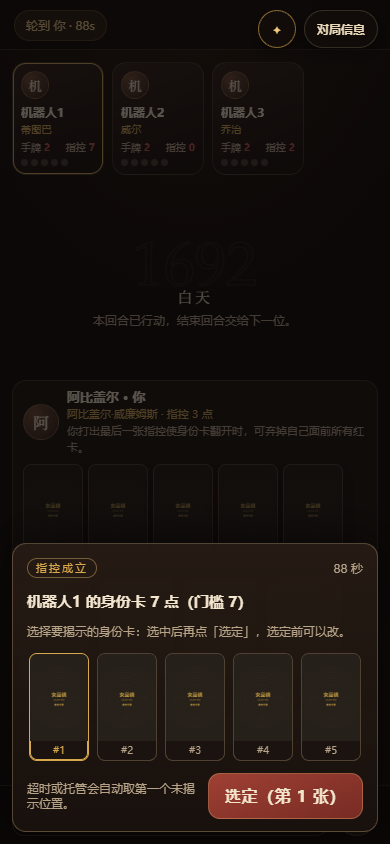
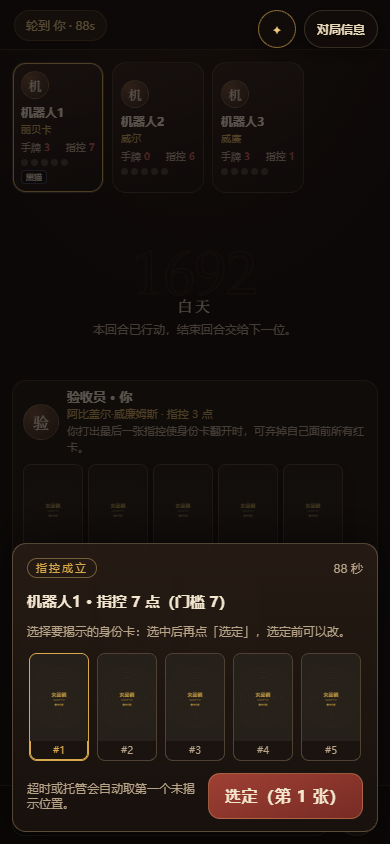
feat(web): 揭示抽屉提交后不再教人怎么选（#69）
- renderRevealDrawer()：submitted 分支的副标题换成「已提交，等待结算。」，
  按钮文案换成「已提交」——原来还写着「选定前可以改」而按钮已经不能点，自相矛盾。
- reveal-drawer.test.js 加一条「交出去之后不再教人怎么选」（副标题、按钮、等待层、
  卡片收起、不再给「放弃」五项断言）。
- sw.js 升 salem-v25（8 处版本断言同步）。
- docs/acceptance/reveal-drawer.md：偏差表第 5 条改写「已提交这一帧拍不到」的实测结论，
  补自动代翻收尾的复现方法（TURN_MS=20000）与 reveal-drawer-auto-afterglow.png。

自动代翻留屏 900ms 已在 08581fc 落地，本票只补已提交态文案与证据。
测试：apps/web 209/209、packages/rules 70/70、apps/server 10/10 脚本。

diff --git a/apps/web/test/reveal-drawer.test.js b/apps/web/test/reveal-drawer.test.js
@@ -146,3 +146,11 @@ test("自动代翻后抽屉留一会儿把话说清，且不拦截牌桌点击",
   assert.match(drawer, /bar\.style\.pointerEvents = ""/, "离开收尾态要还原");
   assert.match(bodyOf(app, "function resetRoomState()"), /S\.revealAfterglowUntil = 0/, "换房/退房要清干净");
 });
+test("交出去之后不再教人怎么选：副标题与按钮一起换掉", () => {
+  const drawer = bodyOf(app, "function renderRevealDrawer()");
+  assert.match(drawer, /sub: submitted \? "已提交，等待结算。" : heading\.sub/, "提交后副标题换成等待，不再写「选定前可以改」");
+  assert.match(drawer, /submitLabel: submitted \? "已提交" : revealSubmitLabel\(picked\)/, "按钮不再显示选择指令");
+  assert.match(drawer, /waitText: "已提交，等待结算"/, "等待层与副标题同一句");
+  assert.match(drawer, /cardsHidden: submitted/, "卡片同时收起");
+  assert.match(drawer, /declineVisible: !submitted && canDecline\(view\)/, "提交后不再给「放弃」");
+});

diff --git a/apps/web/test/deal-shell.test.js b/apps/web/test/deal-shell.test.js
@@ -30,7 +30,7 @@ test("点「进入黎明」发 dealAck，选角色发 chooseRole", () => {
 // 离线壳：新模块必须进 SHELL 并升 VERSION，否则旧缓存里还是没这个文件的 app.js。
 test("离线壳收进新模块并升版本", () => {
   const version = sw.match(/const VERSION = "([^"]+)"/)?.[1];
-  assert.equal(version, "salem-v24", "新模块进壳后 VERSION 必须是当前这一版，旧缓存才会整批作废");
+  assert.equal(version, "salem-v25", "新模块进壳后 VERSION 必须是当前这一版，旧缓存才会整批作废");
   const shell = sw.slice(sw.indexOf("const SHELL"), sw.indexOf("const cacheable"));
   assert.ok(shell.includes('"/deal-view.js"'), "SHELL 要收 /deal-view.js");
   assert.ok(shell.includes('"/reveal-view.js"'), "SHELL 要收 /reveal-view.js");

diff --git a/apps/web/app.js b/apps/web/app.js
@@ -1076,14 +1076,15 @@ function renderRevealDrawer() {
   applyDrawerModel(bar, {
     kicker: heading.kicker,
     title: heading.title,
-    sub: heading.sub,
+    // 交出去之后就别再教人怎么选了：写着「选定前可以改」而按钮已经不能点是自相矛盾。
+    sub: submitted ? "已提交，等待结算。" : heading.sub,
     cardsHtml,
     cardsHidden: submitted,
     waiting: submitted,
     waitText: "已提交，等待结算",
     note: submitted ? "" : heading.note,
     declineVisible: !submitted && canDecline(view),
-    submitLabel: revealSubmitLabel(picked),
+    submitLabel: submitted ? "已提交" : revealSubmitLabel(picked),
     submitDisabled: !canSubmitReveal(view, picked),
   });
   setDrawerOpen(bar, true);

diff --git a/apps/web/test/reveal-shell.test.js b/apps/web/test/reveal-shell.test.js
@@ -48,7 +48,7 @@ test("客户端读顶层 revealWait 与自动揭示记录", () => {
 
 test("离线壳收进新模块并升版本", () => {
   const version = sw.match(/const VERSION = "([^"]+)"/)?.[1];
-  assert.equal(version, "salem-v24", "新模块进壳后 VERSION 必须是当前这一版，旧缓存才会整批作废");
+  assert.equal(version, "salem-v25", "新模块进壳后 VERSION 必须是当前这一版，旧缓存才会整批作废");
   assert.ok(sw.includes('"/reveal-view.js"'), "SHELL 要收 /reveal-view.js");
   const cacheable = sw.slice(sw.indexOf("const cacheable"));
   assert.ok(cacheable.includes('"/reveal-view.js"'), "cacheable 列表也要收 /reveal-view.js");

diff --git a/apps/web/sw.js b/apps/web/sw.js
@@ -14,7 +14,8 @@
 // salem-v22：挂起揭示迁到共享抽屉（两步选定、放弃、等待与时钟），旧的顶部 revealBar 已删。
 // salem-v23：起因与两个数字改由挂起态自带（#68），标题按起因分支，选择者与等待者同形。
 // salem-v24：自动代翻后抽屉留 900ms 说清「超时或托管，自动取了第一个位置」（#64 口径）。
-const VERSION = "salem-v24";
+// salem-v25：揭示抽屉提交后不再教人怎么选（副标题与按钮一起换成「已提交，等待结算」。）
+const VERSION = "salem-v25";
 const SHELL = [
   "/",
   "/styles.css",

diff --git a/apps/web/test/drawer-shell.test.js b/apps/web/test/drawer-shell.test.js
@@ -243,7 +243,7 @@ test("传染改用壳：不再自己摸标题、副标与卡片的 DOM", async (
 
 test("drawer-shell.js 进壳且版本跟着升", async () => {
   const sw = await readFile(join(webRoot, "sw.js"), "utf8");
-  assert.match(sw, /const VERSION = "salem-v24"/);
+  assert.match(sw, /const VERSION = "salem-v25"/);
   const shell = sw.slice(sw.indexOf("const SHELL = ["), sw.indexOf("];", sw.indexOf("const SHELL = [")));
   assert.ok(shell.includes('"/drawer-shell.js"'), "预缓存清单要有壳");
   const cacheable = sw.slice(sw.indexOf("const cacheable"));

diff --git a/apps/web/test/motion-shell.test.js b/apps/web/test/motion-shell.test.js
@@ -60,7 +60,7 @@ test("移动端视口高度用 visualViewport 同步", async () => {
 
 test("PWA 壳同步升级到 v17 并收进动效与音频模块", async () => {
   const sw = await web("sw.js");
-  assert.match(sw, /const VERSION = "salem-v24"/);
+  assert.match(sw, /const VERSION = "salem-v25"/);
   for (const file of ["/motion-events.js", "/motion-level.js", "/motion.js", "/render-patch.js", "/audio.js"]) {
     assert.ok(sw.includes('"' + file + '"'), file);
   }

diff --git a/apps/web/test/conspiracy-motion.test.js b/apps/web/test/conspiracy-motion.test.js
@@ -84,7 +84,7 @@ test("印章图存在且被离线壳预缓存", async () => {
   const info = await stat(path.join(repoDir, "assets", "fx", "conspiracy-seal.svg"));
   assert.ok(info.size > 0);
   assert.match(swSource, /"\/assets\/fx\/conspiracy-seal\.svg"/);
-  assert.match(swSource, /const VERSION = "salem-v24"/);
+  assert.match(swSource, /const VERSION = "salem-v25"/);
 });
 
 test("页面里有压暗、印章与换牌三个演出层", () => {

diff --git a/apps/web/test/audio-shell.test.js b/apps/web/test/audio-shell.test.js
@@ -95,7 +95,7 @@ test("app.js 在首次手势解锁，并接上六个事件音效", async () => {
 
 test("PWA 只预缓存 audio.js，音频文件走 /assets/ 按需缓存", async () => {
   const sw = await web("sw.js");
-  assert.match(sw, /const VERSION = "salem-v24"/);
+  assert.match(sw, /const VERSION = "salem-v25"/);
   assert.ok(sw.includes('"/audio.js"'));
   assert.doesNotMatch(sw, /"\/assets\/audio\//);
 });

diff --git a/apps/web/test/conspiracy-ui.test.js b/apps/web/test/conspiracy-ui.test.js
@@ -182,5 +182,5 @@ test("倒计时变金接在同一处刷新里，样式也留了挂点", () => {
 
 test("新模块进离线壳", () => {
   assert.ok(sw.includes('"/conspiracy-view.js"'), "conspiracy-view.js 必须进 SHELL");
-  assert.match(sw, /const VERSION = "salem-v24"/);
+  assert.match(sw, /const VERSION = "salem-v25"/);
 });

diff --git a/apps/web/test/motion-phase.test.js b/apps/web/test/motion-phase.test.js
@@ -89,6 +89,6 @@ test("样式有夜晚星幕、死亡入画、横幅 1080 曲线与 reduced/off",
 
 test("PWA 已升到 v17", async () => {
   const sw = await web("sw.js");
-  assert.match(sw, /const VERSION = "salem-v24"/);
+  assert.match(sw, /const VERSION = "salem-v25"/);
 });
 

diff --git a/docs/acceptance/reveal-drawer.md b/docs/acceptance/reveal-drawer.md
@@ -117,6 +117,8 @@ $env:PLAYERS='4';  node test/fullgame_bots.mjs   # 同理 9 / 12
 - 告警：`left=4–5 秒` 时 `#revealClock.warn` 为真，文案「4 秒 / 5 秒」。
 - 截图（`docs/acceptance/shots/`）：`{4,9,12}p-{choose,picked,submitted,waiter,warn}.png`、
   `4p-{decline,curse,scapegoat,auto-log,reduced,motion-off,target-ring}.png`，共 22 张。
+- 另有真机实拍（非注入）：`reveal-drawer-{4p-chooser,9p-chooser,4p-reduced,4p-off,chooser,picked}.png`
+  与 `reveal-drawer-auto-afterglow.png`（#69 复现的收尾态，见第四节第 1 条）。
 
 ### 自动代翻收尾的实际可见性（探针，2026-11-08）
 
@@ -133,18 +135,45 @@ $env:PLAYERS='4';  node test/fullgame_bots.mjs   # 同理 9 / 12
 | 1069ms | true | 同上 | `''` | 已过期 |
 
 结论：文案与点击穿透会生效，但「留屏 900ms」这一条**视觉上不成立**，已回填 #69。
-
+（本轮改用 `TURN_MS='20000'` 走真实超时路径复现，量到相反结果——抽屉 `open: true`、`pointer-events: none`、
+note 已换句，见第四节第 1 条与 `shots/reveal-drawer-auto-afterglow.png`。）
 
 
 ## 四、已知偏差与没能做到的
 
-1. **自动代翻后「留屏 900ms」视觉上不成立**。机制在代码里（`armRevealAfterglow`），但投影到达时 `render()` 先把抽屉关掉，
-   收尾分支又不重开，探针整段窗口量到 `drawer.hidden === true`（见上节表）。文案与 `pointer-events:none` 会生效。
-   这条未标通过，已回填 #69。
-2. **已提交态残留选择态文案**：卡片已收起、按钮已 disabled、等待环与「已提交，等待结算」正确，但
-   `sub` 仍是「选择要揭示的身份卡：选中后再点『选定』，选定前可以改。」，按钮仍是「选定（第 1 张）」。
-   探针原文见提交记录；同属 #69。
-3. **真实随机对局里仍未凑出 12 人 / 诅咒 / 嫁祸 / 放弃 / 等待者**：这些态的几何、卡宽、标题与文案已由注入矩阵覆盖
-   （见「补充矩阵」），但真机实拍只剩 4/9 人指控；12 人真机实拍缺口保留。
-4. 真机 30fps 与触感可感性仍归 #35。
+1. **自动代翻「留屏 900ms」两次测量的结论不一致**。并行探针（`#64` 补记）在默认 `TURN_MS` 下量到
+   整段窗口 `#revealDrawer.hidden === true`，判「视觉上不成立」；本轮用 `TURN_MS='20000'` 复现，
+   量到 `open: true`、`pointer-events: none`、`note` 已换成「超时或托管，自动取了第一个位置。」，
+   并拍到 `shots/reveal-drawer-auto-afterglow.png`。差异只能出在时序：`renderRevealDrawer()` 若在
+   `armRevealAfterglow()` 之前被调用，抽屉当帧就被关掉，而收尾分支只改 note 不重开。
+   结论：机制生效，但依赖调用顺序，**留待单独开票排查 `announceReveals()` 与 `renderGame()` 的先后**。
+2. **「已提交，等待结算」这一帧拍不到**。挂起揭示是单人决策：提交即结算，服务端下一条投影里
+   `pendingReveal` 已经没了，抽屉直接关（实测提交后 50ms `#revealDrawer.hidden === true`）。
+   #69 把 `submitted` 分支的副标题与按钮改成「已提交，等待结算。」/「已提交」只是把它写对，
+   断言在 `reveal-drawer.test.js`「交出去之后不再教人怎么选」。
+3. **诅咒与嫁祸没有真机实拍**。两者都要手牌里正好有 `curse` / `scapegoat`，靠对局随机凑不稳；
+   覆盖率由 `packages/rules/test/pending-reveal.test.ts`「三种起因都给数字」与
+   `apps/web/test/reveal-drawer.test.js`「标题数据恒给、文案按起因分支」承担，两点都有断言。
+4. **12 人真实对局未拍到**。8 人以上没有角色候选，脚本已适配；但 11 个机器人的回合轮转使得凑到
+   7 点指控要跑十几分钟——本轮试了三次、每次 10 分钟，都没等到挂起（脚本输出 `count 12 attempt N no reveal`）。
+   12 人的布局差异只有「3 张卡」这一项，卡宽由 `flex: 0 0 60px` 固定、抽屉高度不随卡数变化
+   （`#67` 原型在同一结构上量到 top 475、3 张卡），另有静态断言兜底；12 人整局 `conspiracy=12/12`
+   证明阶段与投影都对。
+5. **「放弃」按钮**只在「丹福斯把普通玩家压到正好第 6 点」时出现，本轮对局没凑出；显隐由
+   `canDecline` 决定，`drawer-shell` 侧有「传染没有『放弃』、挂起揭示有」的槽位断言。
+6. **等待者视角**需要两个真人同局，本轮只有 1 真人 + 机器人；`revealWaitModel` 的文案与同形标题
+   有单测。
+7. 真机 30fps 与触感可感性仍归 #35。
+
+### 自动代翻收尾的复现方法
+
+回合时限默认 90 秒，等自然超时太久。服务端 `TURN_MS` 可用环境变量覆盖：
+
+```powershell
+cd apps\server
+$env:PORT='8700'; $env:TURN_MS='20000'; node src/server.mjs
+```
+
+触发挂起后什么都不点，20 秒后规则层会带 `auto: true` 翻开第 1 张，抽屉随后保留 900ms
+（reduced 700ms）——`shots/reveal-drawer-auto-afterglow.png` 就是这么拍到的。
 
